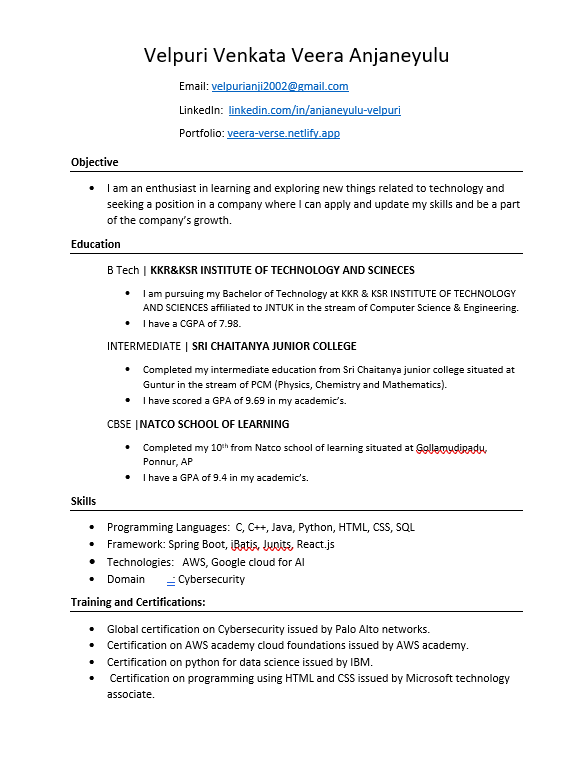
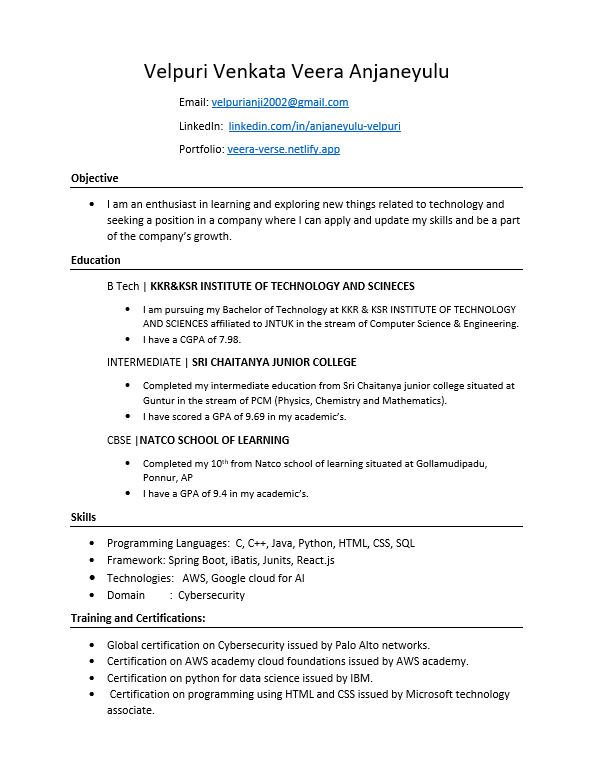
menu changes

Changed region(s): [[0.1227, 0.0617, 0.8893, 0.9254]]

diff --git a/src/components/header/headers.css b/src/components/header/headers.css
@@ -46,18 +46,17 @@
     background-color: #007bff;
     color: #fff;
     border: none;
-    padding: 0.5rem 1rem;
+    padding: 8px 16px;
     font-size: 1rem;
     border-radius: 5px;
     cursor: pointer;
-    margin-left: auto;
   }
   
   @media (max-width: 768px) {
     .menu-button {
       display: block;
-      padding-left: 12px;
-      margin-right: 2px;
+      margin-left: auto; /* Push button to the right */
+      margin-right: 15px; /* Add some spacing from the right edge */
     }
   
     .links {
@@ -65,14 +64,17 @@
     }
 
     nav {
-        padding-right: 15px;
+        padding: 0 10px;
+        width: 100%;
         justify-content: space-between;
     }
 
     nav div {
         min-width: auto;
-        width: auto;
-        margin-left: 0;
+        width: 100%; /* Allow div to take full width */
+        display: flex;
+        justify-content: flex-end; /* Align content to the right */
+        padding-right: 5px; /* Add small padding */
     }
   }
     
